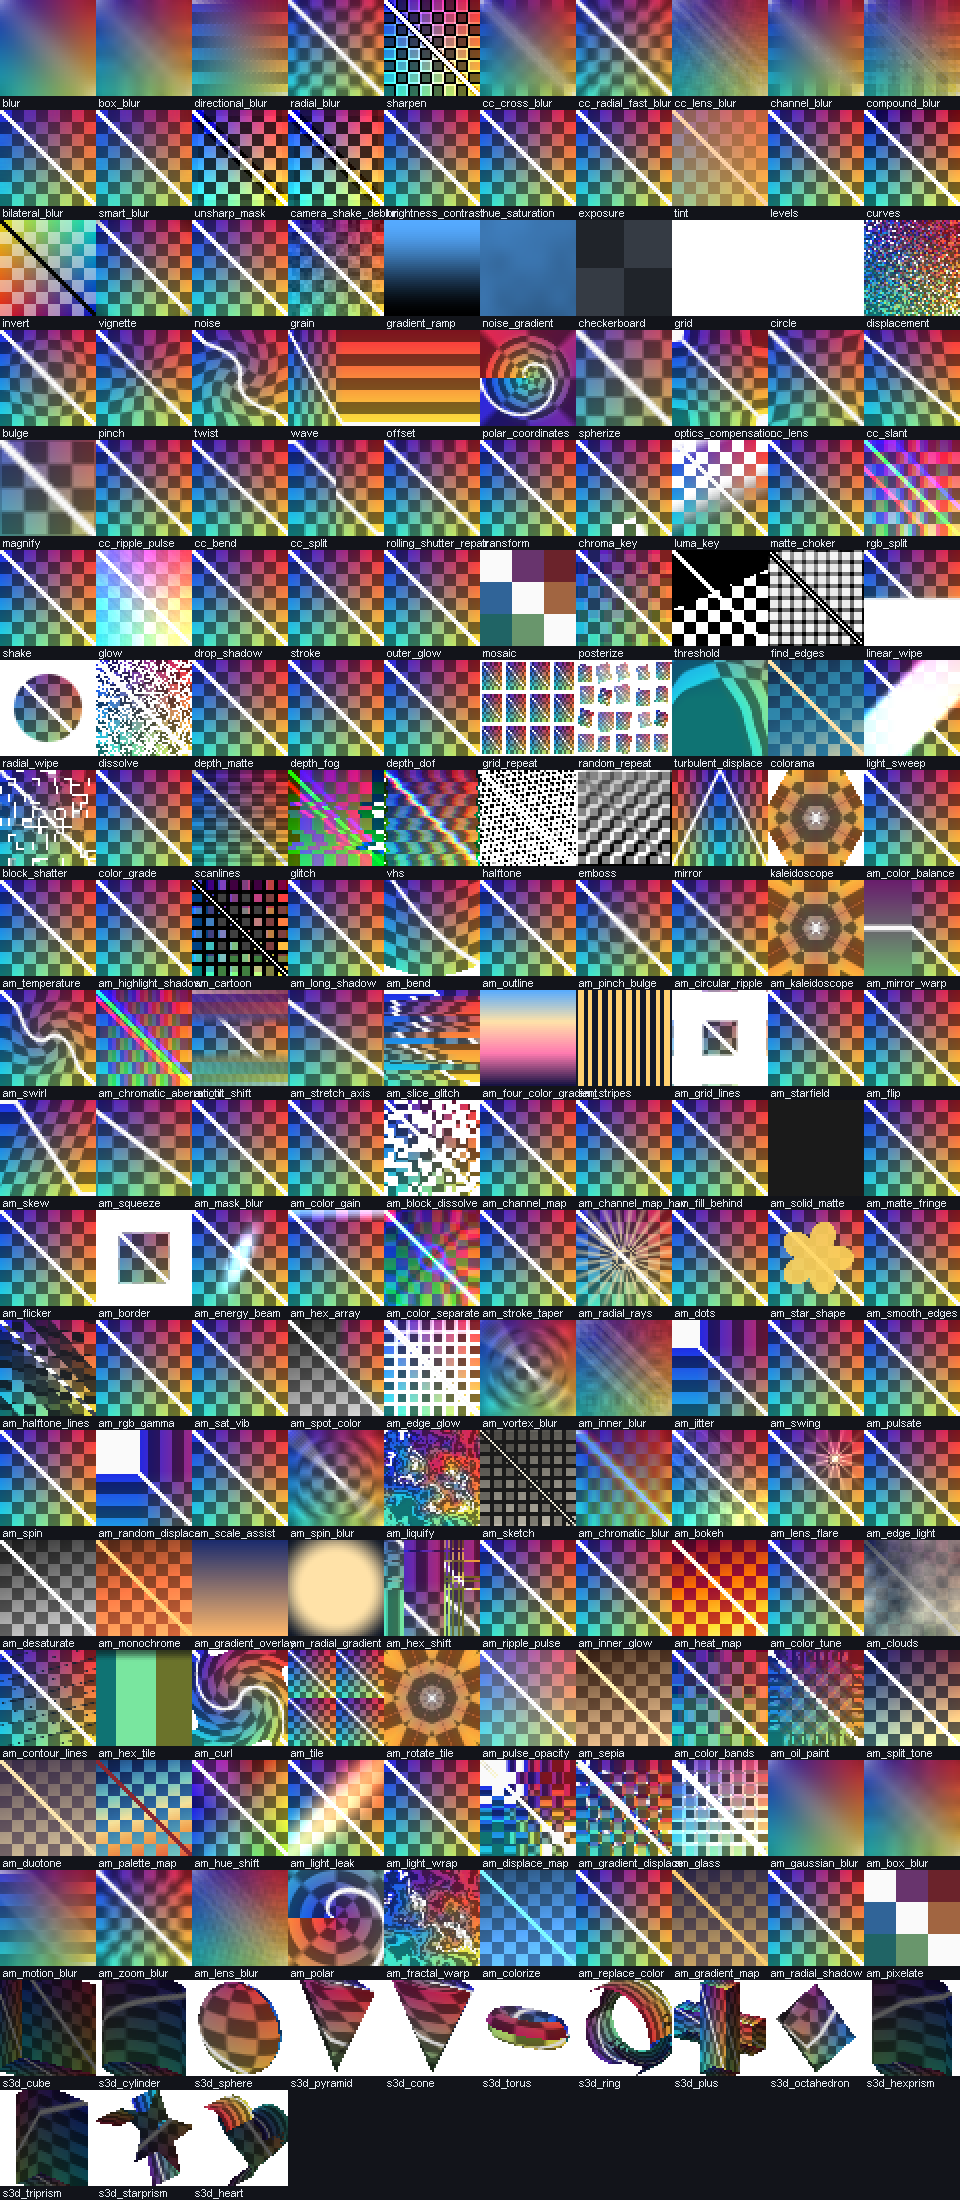
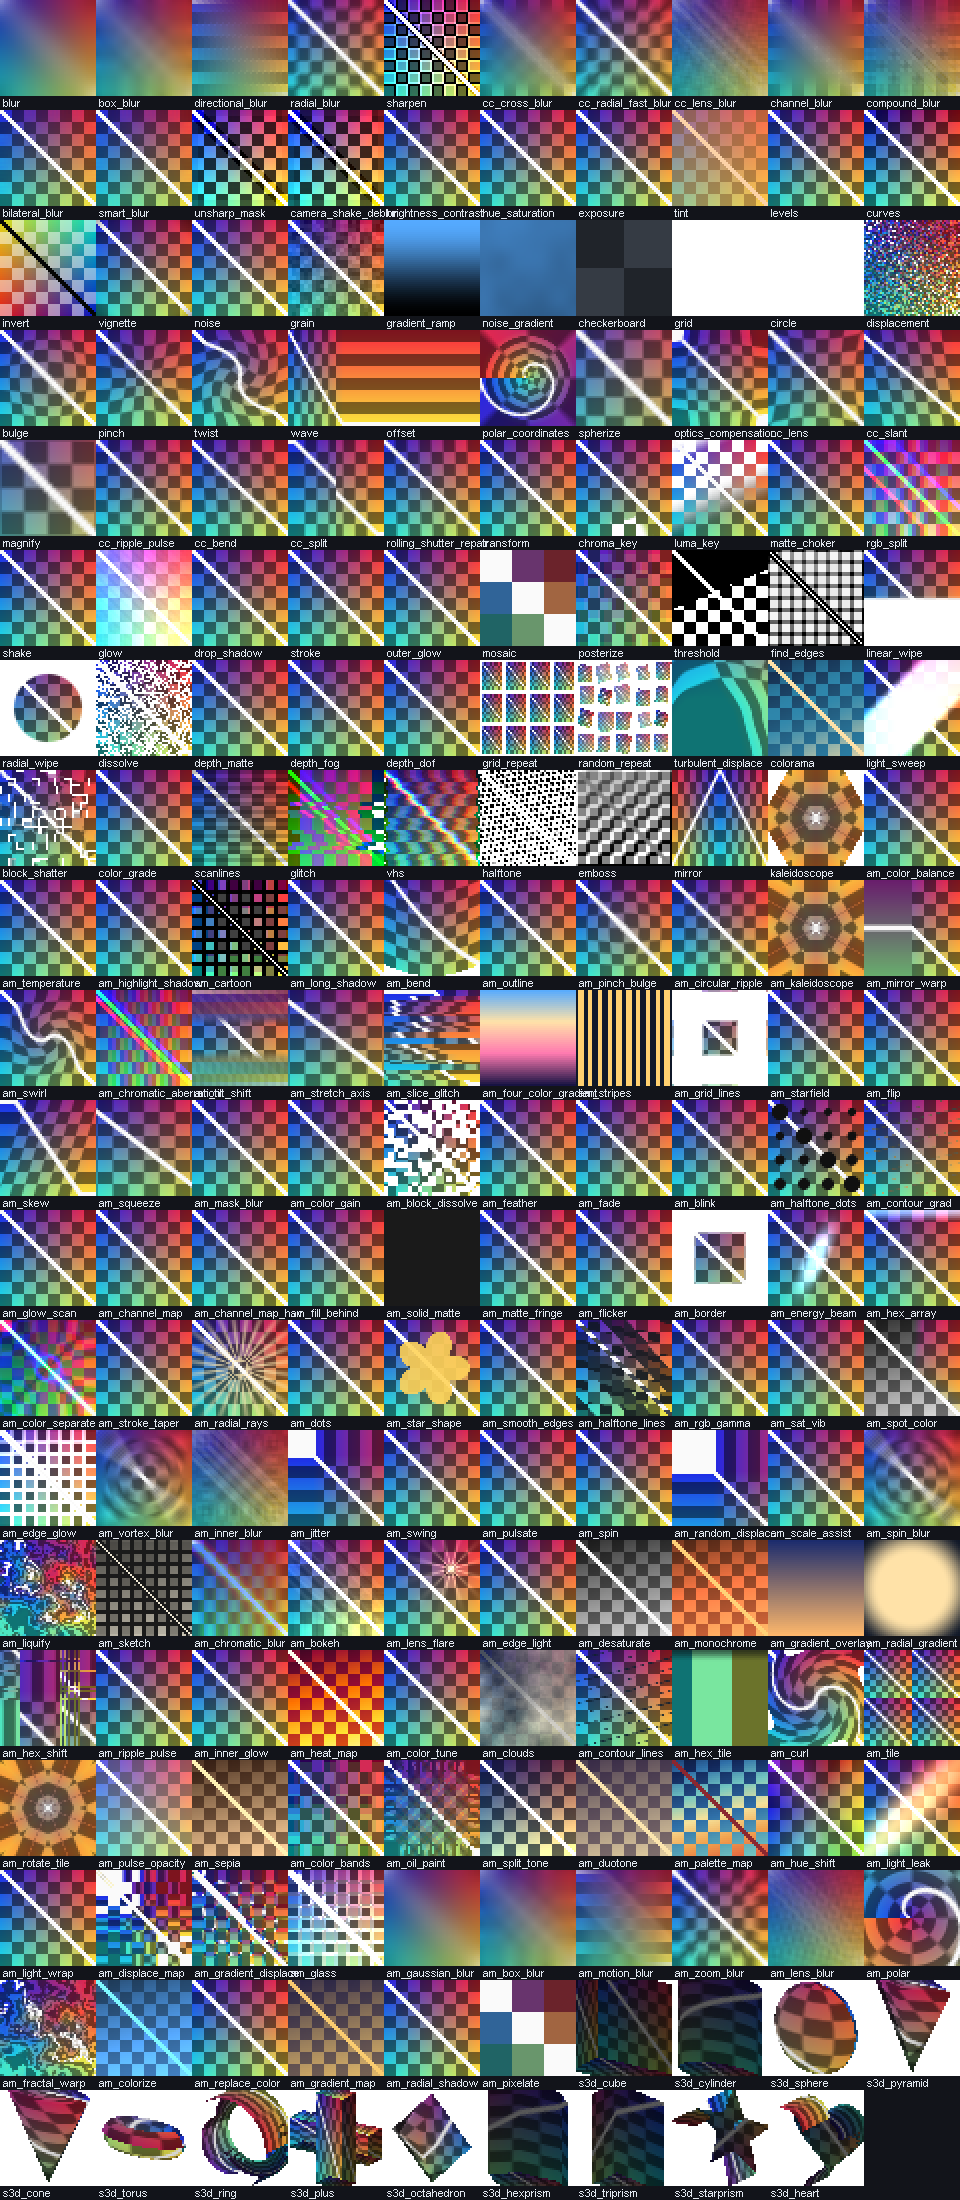
feat(0.52): opacity and halftone tools
- 羽化 (averaged alpha feather), 半调点 (luminance-sized halftone dots), 等高线渐变 (contour bands
  coloured by luminance) under AM · 绘制.
- 淡入淡出 (progress alpha; identity at progress 1 via neutralWhen), 眨眼 (time-quantised blink)
  under AM · 透明度.
- 光扫 (moving highlight band) under AM · 风格化.
- 120 effects total (107 2D + 13 3D); 322 tests green.
- Release bbsae-0.52.jar (SHA-256 362FE6B6F773D87420E1E1C33B254BCE43A804211EF9BEF990AFF2B6A3115C80).

diff --git a/src/main/java/dev/bbsae/comp/AmEffectLibrary.java b/src/main/java/dev/bbsae/comp/AmEffectLibrary.java
@@ -629,6 +629,108 @@ public final class AmEffectLibrary
             .p("blocks", "方块数", 2F, 120F, 20F, 1F)
             .p("seed", "随机种子", 0F, 9999F, 0F, 1F));
 
+        add(new AmEffectDef("am_feather", "羽化", "AM · 绘制", """
+            void main()
+            {
+                vec2 luv = layerUv(vUv);
+                vec4 c = sampleLayer(luv);
+                float sum = 0.0;
+
+                for (int i = 0; i < 12; i++)
+                {
+                    float a = float(i) * 0.5235988;
+                    vec2 offset = vec2(cos(a), sin(a)) * (u_radius / max(LayerSize, vec2(1.0)));
+                    sum += sampleLayer(luv + offset).a;
+                }
+
+                float averaged = sum / 12.0;
+                fragColor = vec4(c.rgb, mix(c.a, clamp(averaged * 1.5, 0.0, 1.0), clamp(u_strength, 0.0, 1.0)));
+            }
+            """, 0F, "radius")
+            .p("radius", "范围（像素）", 0F, 40F, 4F, 0.5F)
+            .p("strength", "强度", 0F, 1F, 1F, 0.01F));
+
+        add(new AmEffectDef("am_fade", "淡入淡出", "AM · 透明度", """
+            void main()
+            {
+                vec2 luv = layerUv(vUv);
+                vec4 c = sampleLayer(luv);
+                fragColor = vec4(c.rgb, c.a * clamp(u_progress, 0.0, 1.0));
+            }
+            """, 0F, null)
+            .neutralWhen((effect) -> effect.valueF("progress", 1F) >= 0.999F)
+            .p("progress", "进度", 0F, 1F, 1F, 0.01F));
+
+        add(new AmEffectDef("am_blink", "眨眼", "AM · 透明度", """
+            void main()
+            {
+                vec2 luv = layerUv(vUv);
+                vec4 c = sampleLayer(luv);
+                float phase = fract(Time * max(u_speed, 0.0));
+                float closed = step(0.5, phase) * clamp(u_amount, 0.0, 1.0);
+                fragColor = vec4(c.rgb, c.a * (1.0 - closed));
+            }
+            """, 0F, "amount")
+            .p("amount", "幅度", 0F, 1F, 1F, 0.01F)
+            .p("speed", "速度（次/秒）", 0F, 10F, 2F, 0.01F));
+
+        add(new AmEffectDef("am_halftone_dots", "半调点", "AM · 绘制", """
+            void main()
+            {
+                vec2 luv = layerUv(vUv);
+                vec4 c = sampleLayer(luv);
+                float y = clamp(luma(c.rgb), 0.0, 1.0);
+                vec2 p = luv * LayerSize / max(u_spacing, 1.0);
+                vec2 cell = floor(p) + 0.5;
+                vec2 local = fract(p) - 0.5;
+                vec2 cellUv = cell * max(u_spacing, 1.0) / max(LayerSize, vec2(1.0));
+                float cellY = clamp(luma(sampleLayer(cellUv).rgb), 0.0, 1.0);
+                float radius = 0.55 * sqrt(cellY) * clamp(u_size, 0.05, 1.0);
+                float dotMask = smoothstep(radius, radius - 0.08, length(local));
+                fragColor = vec4(mix(c.rgb, u_color.rgb, dotMask * clamp(u_alpha, 0.0, 1.0)), c.a);
+            }
+            """, 0F, "alpha")
+            .p("spacing", "间距", 4F, 120F, 12F, 1F)
+            .p("size", "点大小", 0.05F, 1F, 0.7F, 0.01F)
+            .p("alpha", "强度", 0F, 1F, 1F, 0.01F)
+            .c("color", "点颜色", 0xFF101010));
+
+        add(new AmEffectDef("am_contour_grad", "等高线渐变", "AM · 绘制", """
+            void main()
+            {
+                vec2 luv = layerUv(vUv);
+                vec4 c = sampleLayer(luv);
+                float y = clamp(luma(c.rgb), 0.0, 1.0);
+                float wave = sin((y + u_phase) * max(u_frequency, 0.1) * 6.2831853);
+                float line = 1.0 - smoothstep(0.0, max(u_thickness, 0.01), abs(wave));
+                vec3 grad = mix(u_color1.rgb, u_color2.rgb, y);
+                fragColor = vec4(mix(c.rgb, grad, line * clamp(u_alpha, 0.0, 1.0)), c.a);
+            }
+            """, 0F, "alpha")
+            .p("frequency", "密度", 0.1F, 30F, 8F, 0.1F)
+            .p("thickness", "线宽", 0.01F, 1F, 0.16F, 0.01F)
+            .p("phase", "相位", -1F, 1F, 0F, 0.01F)
+            .p("alpha", "强度", 0F, 1F, 0.9F, 0.01F)
+            .c("color1", "低亮度颜色", 0xFF102030)
+            .c("color2", "高亮度颜色", 0xFFFFD070));
+
+        add(new AmEffectDef("am_glow_scan", "光扫", "AM · 风格化", """
+            void main()
+            {
+                vec2 luv = layerUv(vUv);
+                vec4 c = sampleLayer(luv);
+                float position = fract(Time * max(u_speed, 0.0)) * 1.4 - 0.2;
+                float coord = (luv.y - position) / max(u_width, 0.001);
+                float band = exp(-coord * coord);
+                float intensity = band * clamp(u_intensity, 0.0, 4.0);
+                fragColor = vec4(clamp(c.rgb + u_color.rgb * intensity, 0.0, 1.0), c.a);
+            }
+            """, 0F, "intensity")
+            .p("width", "宽度", 0.001F, 0.5F, 0.06F, 0.001F)
+            .p("speed", "速度（次/秒）", 0F, 5F, 0.4F, 0.01F)
+            .p("intensity", "强度", 0F, 4F, 1.2F, 0.01F)
+            .c("color", "光带颜色", 0xFFB0E4FF));
+
         add(new AmEffectDef("am_channel_map", "通道映射", "AM · 调色", """
             void main()
             {

diff --git a/src/test/java/dev/bbsae/comp/AmEffectLibraryTest.java b/src/test/java/dev/bbsae/comp/AmEffectLibraryTest.java
@@ -37,7 +37,7 @@ public class AmEffectLibraryTest
             assertTrue(definition.body.contains("fragColor"), "body writes no colour: " + definition.id);
         }
 
-        assertTrue(ids.size() >= 101, "the catalogue should have crossed one hundred effects");
+        assertTrue(ids.size() >= 107, "the catalogue should have grown with the opacity/drawing batch");
     }
 
     @Test
@@ -157,6 +157,12 @@ public class AmEffectLibraryTest
         assertNeutral("am_mask_blur", "radius", 0F);
         assertNeutral("am_color_gain", "gain_r", 1F);
         assertNeutral("am_block_dissolve", "progress", 1F);
+        assertNeutral("am_feather", "radius", 0F);
+        assertNeutral("am_fade", "progress", 1F);
+        assertNeutral("am_blink", "amount", 0F);
+        assertNeutral("am_halftone_dots", "alpha", 0F);
+        assertNeutral("am_contour_grad", "alpha", 0F);
+        assertNeutral("am_glow_scan", "intensity", 0F);
 
         CompEffect balance = CompEffectRegistry.create("am_color_balance", 1);
 

diff --git a/README.md b/README.md
@@ -110,15 +110,15 @@ export** without touching the `.dat` film format.
 
 ## Download / Install
 
-1. Download [`bbsae-0.51.jar`](https://github.com/zhongend/bbsae/releases/download/v0.51/bbsae-0.51.jar)
-   from the **v0.51** release (the asset is updated with each source push).
+1. Download [`bbsae-0.52.jar`](https://github.com/zhongend/bbsae/releases/download/v0.52/bbsae-0.52.jar)
+   from the **v0.52** release (the asset is updated with each source push).
 2. Install **Minecraft 1.20.1**, **Fabric Loader 0.16.14+**, **Fabric API 0.92.1+1.20.1** and
    **BBS FS 2.7-1.20.1**.
-3. Put `bbsae-0.51.jar` and the BBS FS jar into the game's `mods/` folder.
+3. Put `bbsae-0.52.jar` and the BBS FS jar into the game's `mods/` folder.
 4. Launch the game, open a film in BBS, select a replay, then use
    **Replay properties → Compositor → Open Film Compositor**.
 
[2 lines of base64/hex data omitted]
 
 ## Gallery
 
@@ -185,6 +185,15 @@ The compositor does not re-encode films or patch `.dat` files. BBS serializes a 
 `RegisterFrameOverlaysEvent` point. That means the same composition appears in BBS's preview and in
 its FFmpeg film export, and BBS keeps ownership of keyframes, undo, project storage and video
 encoding.
+
+## What's new in 0.52 — opacity and halftone tools
+
+- **羽化**, **半调点**, **等高线渐变** (`AM · 绘制`): averaged alpha feather, luminance-sized
+  halftone dots and contour bands coloured by luminance.
+- **淡入淡出**, **眨眼** (`AM · 透明度`): progress alpha and a time-quantised blink; fade's identity
+  is progress 1 (declared through neutralWhen).
+- **光扫** (`AM · 风格化`): a moving highlight band.
+- 120 effects total (107 2D + 13 3D); 322 tests green.
 
 ## What's new in 0.51 — effects work in 2D and 3D and stack
 

diff --git a/docs/EFFECT-LIBRARY-PLAN.zh.md b/docs/EFFECT-LIBRARY-PLAN.zh.md
@@ -1,6 +1,6 @@
 # 效果库对齐计划（AM 效果体系）
 
-> 进度：114 个效果（101 个 2D 复刻 + 13 个 3D 图元），3D 图元由网格渲染管线绘制。
+> 进度：120 个效果（107 个 2D 复刻 + 13 个 3D 图元），3D 图元由网格渲染管线绘制。
 
 目标：把「混合模式」「效果库」「参数语义」「图标」四项做到与 Alight Motion 的使用体验一致，
 并按第一性原理保证 **每个参数拉到 0 都是原样**（少数天然无零点的效果除外，见第 4 节）。
@@ -179,6 +179,9 @@ switch 中拆出来：
 4.24 **程序化/绘制批**（径向光线、点阵、星形、平滑边缘、半调线；已完成）
 4.25 **边框/光束/阵列批**（边框、能量束、六边形阵列、彩色分离、描边锥度；已完成）
 4.26 **通道/合成批**（通道映射、HSV 通道映射、填充背后、实色遮罩、遮罩边缘、闪烁；已完成）
+4.30 **透明度/绘制批**（羽化、淡入淡出、眨眼、半调点、等高线渐变、光扫；已完成）
+    - 淡入淡出的原图状态是进度 1，用 `neutralWhen` 声明；眨眼/半调点/等高线渐变/光扫用强度 0。
+
 4.29 **2D/3D 兼容与效果叠加**
     - `CompRenderContext.layerLocalPass`：3D 烘焙时效果运行在图层局部栅格上，
       `sampleLayer` 直接用源 UV（`LocalSource=1`），合成阶段才走 `localToCompUv`；
